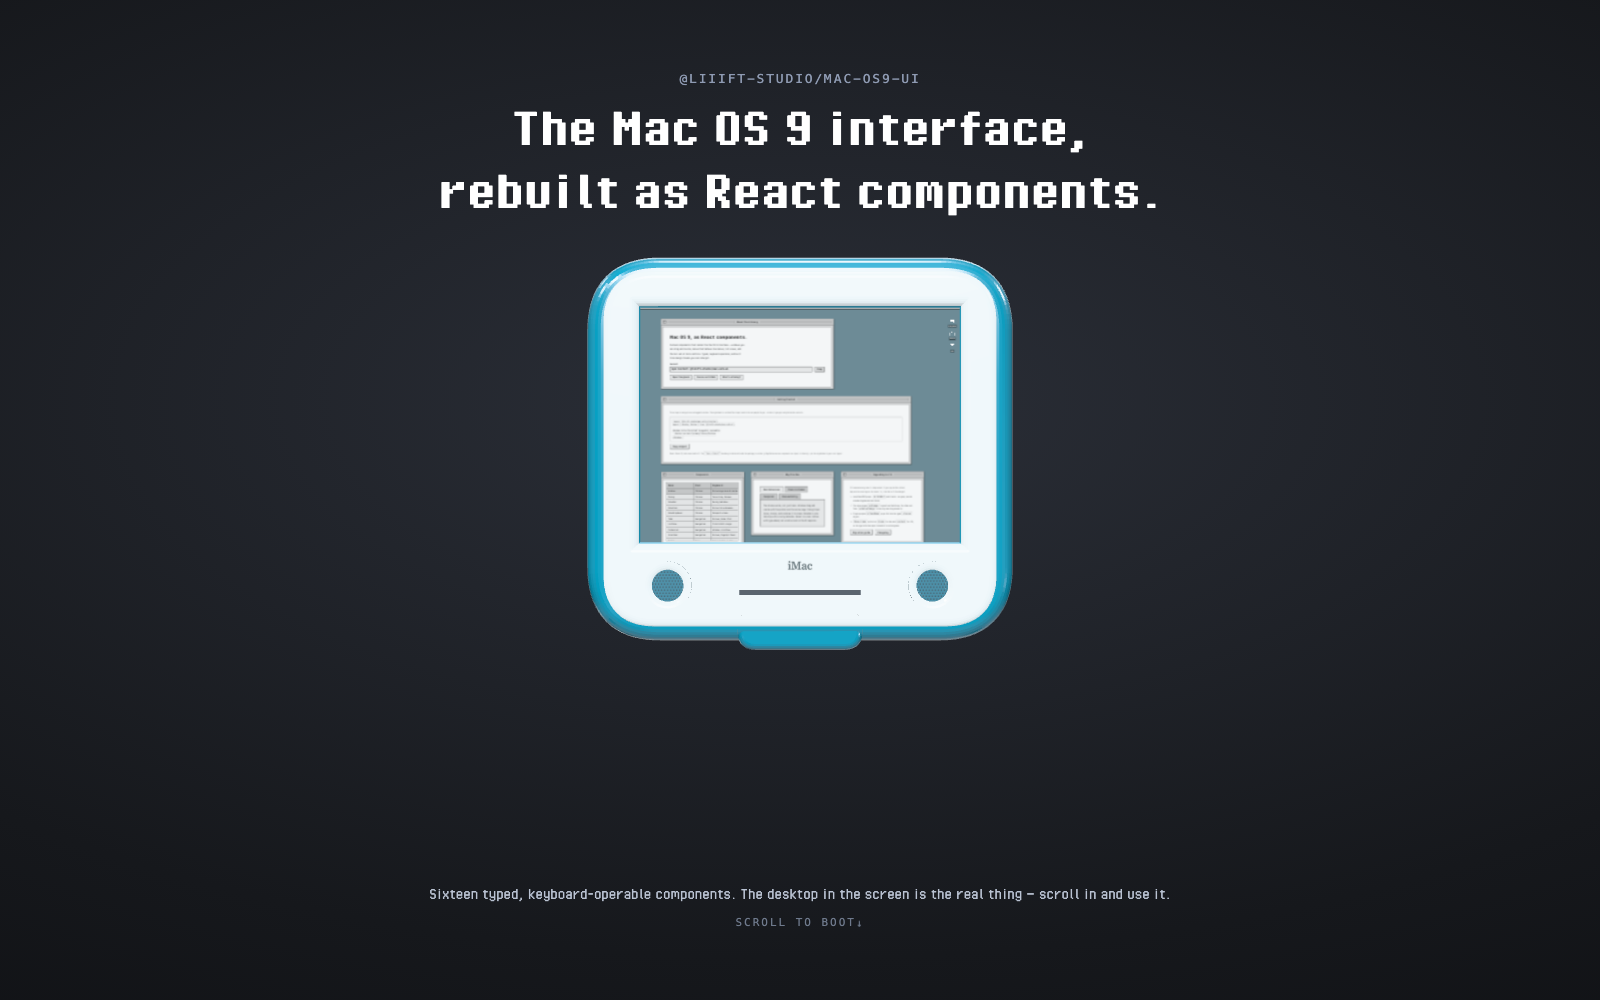
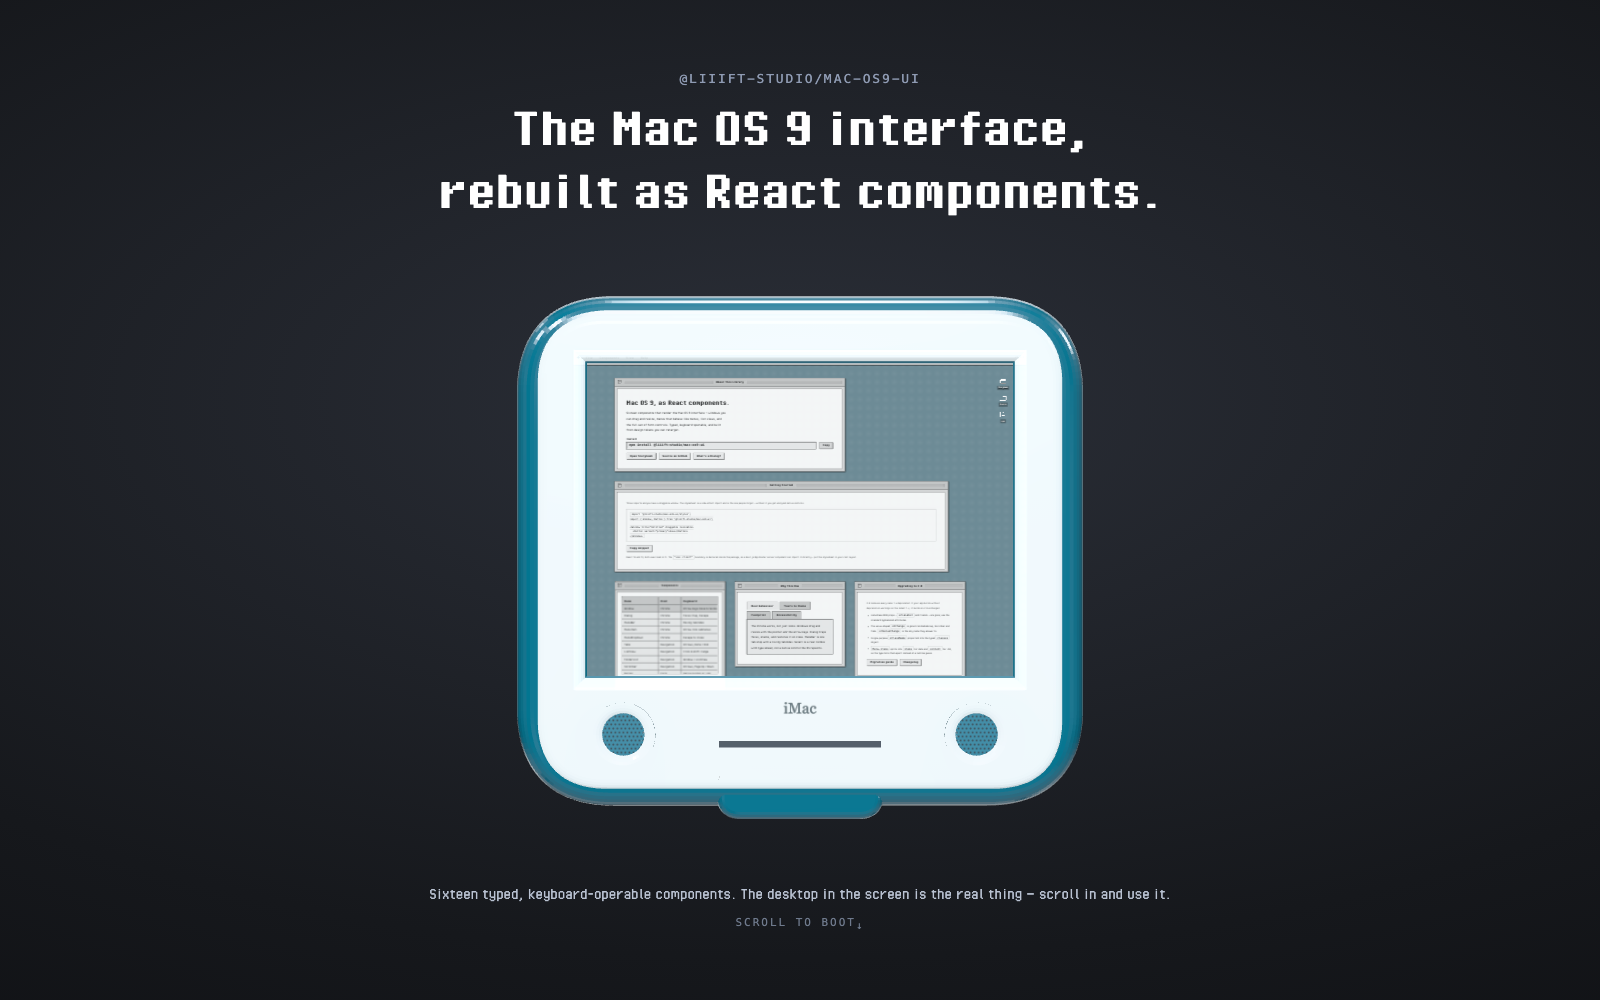
Site: menu bar above the windows, machine centred and larger, translucent shell
Three things wrong on the deployed page, plus one I introduced fixing them.

Windows scrolled over the menu bar. WindowManager hands out `baseZIndex + stack
position` from a default base of 100, and the menu bar was on 60 — so window
content rode over the top of it instead of under. The bar sits above the whole
window range now.

The machine sat high in the hero and was small for the space. The camera looks
at (0, heroCentreY, 0), and a world point at y = 0 lands BELOW the viewport
centre when that target is positive — so the sign follows the band the copy
leaves free rather than opposing it. It was negated, which pushed the machine
up by exactly the amount it should have come down. It also fills 88% of that
band now rather than 66%.

The shell is translucent, which is the whole point of the machine — you could
see into it. This is only safe now that the aperture is cut out of the shell as
well as the front panel: a transmissive material is drawn in the transparent
pass, after the cutout has written its hole, so while the shell was a solid
slab it blended straight over the desktop and washed the entire screen cyan.
With no shell geometry over the aperture there is nothing left to wash it with.
The ice panel gets a little transmission too, since diffusing polycarbonate is
translucent rather than painted.

And the one I made: releasing the desktop wrote inline position styles onto the
host, and un-releasing cleared them — but CSS3DRenderer caches the transform it
[…]

Changed region(s): [[0.3125, 0.248, 0.6875, 0.837]]

diff --git a/site/src/components/MachineStage.tsx b/site/src/components/MachineStage.tsx
@@ -1,12 +1,21 @@
 // Chooses how the machine is drawn, and owns the handoff to the live desktop.
 //
-// The desktop lives in one detached host element for the whole session, and
-// that element is *moved* between three homes: the CSS3D layer while the WebGL
-// machine has it, a plain full-viewport wrapper once the zoom completes, and
-// the CSS machine's screen when WebGL is unavailable. Moving the node rather
-// than re-parenting it in React is what keeps the desktop's state — open
-// windows, chosen flavour, selected rows — across the handoff. React renders
-// into the host through a portal and never has to care where it currently is.
+// Two detached elements, created once and never re-created. `host` is the 4:3
+// aperture and belongs to CSS3DRenderer for the whole session — nothing else
+// ever writes to its style. `page` is the viewport-sized desktop inside it,
+// and *that* is what moves: into a plain full-viewport wrapper once the zoom
+// completes, and back into the aperture when you scroll away again.
+//
+// Moving the page rather than the host is deliberate. CSS3DRenderer caches the
+// transform it wrote per object and skips rewriting an unchanged one, so any
+// inline style cleared off the host is never restored — the aperture ends up
+// stranded without its transform and the desktop spills out beside the case.
+// Leaving the host alone means there is nothing to strand.
+//
+// Moving a node rather than re-parenting it in React is what keeps the
+// desktop's state — open windows, chosen flavour, selected rows — across the
+// handoff. React renders into `page` through a portal and never has to care
+// where it currently is.
 //
 // WebGL is loaded on demand and is never on the critical path: if it fails, is
 // unsupported, or the visitor prefers reduced motion, the desktop is simply
@@ -116,25 +125,18 @@ export function MachineStage({ children, above, below }: MachineStageProps) {
 			stage.dataset.released = next ? 'true' : 'false';
 
 			if (next) {
-				release.appendChild(host);
-				// CSS3DRenderer writes position and a matrix3d straight onto the
-				// element it owns. Those survive the move, so they have to be
-				// replaced rather than merely cleared — the aperture is wider
-				// and taller than the viewport, and the page inside it only
-				// lands at 0,0 if the host is centred and top-aligned.
-				host.style.position = 'absolute';
-				host.style.top = '0';
-				host.style.left = '50%';
-				host.style.transform = 'translateX(-50%)';
-				host.style.willChange = '';
-				host.removeAttribute('inert');
-				host.removeAttribute('aria-hidden');
+				// Only the page moves. Where it sits in each home is decided by
+				// CSS on the parent, so no inline style is written here at all.
+				release.appendChild(page);
+				page.removeAttribute('inert');
+				page.removeAttribute('aria-hidden');
 				handle?.setVisible(false);
 			} else {
+				host.appendChild(page);
 				// `inert` is set through the DOM rather than as a JSX prop
 				// because React 18 does not recognise it as a known attribute.
-				host.setAttribute('inert', '');
-				host.setAttribute('aria-hidden', 'true');
+				page.setAttribute('inert', '');
+				page.setAttribute('aria-hidden', 'true');
 				handle?.setVisible(true);
 			}
 		};
@@ -148,9 +150,9 @@ export function MachineStage({ children, above, below }: MachineStageProps) {
 
 		// --- Flat fallback: no machine, just the desktop ---------------------
 		const runFlat = () => {
-			release.appendChild(host);
-			host.removeAttribute('inert');
-			host.removeAttribute('aria-hidden');
+			release.appendChild(page);
+			page.removeAttribute('inert');
+			page.removeAttribute('aria-hidden');
 			stage.dataset.released = 'true';
 			released = true;
 			setMode('flat');

diff --git a/site/src/components/machineGL.ts b/site/src/components/machineGL.ts
@@ -39,8 +39,8 @@ const ICE_COLOUR = 0xdfe7ea;
 /** Field of view, degrees. Long-ish, so the machine reads as a product shot. */
 const FOV = 32;
 
-/** Fraction of the viewport the machine fills in the hero. */
-const HERO_FILL = 0.66;
+/** Fraction of the free band the machine fills in the hero. */
+const HERO_FILL = 0.88;
 
 export interface MachineGLOptions {
 	/** Element the two renderers are appended to. */
@@ -252,19 +252,29 @@ export async function createMachineGL(options: MachineGLOptions): Promise<Machin
 	const machine = new THREE.Group();
 	scene.add(machine);
 
-	// Deliberately not `transmission`. A transmissive material is drawn in the
-	// transparent pass, after the cutout has written its hole — so it blends
-	// straight over the desktop and washes the whole screen cyan. Clearcoat
-	// over a saturated base gives the same wet-plastic read, renders in the
-	// opaque pass where the cutout can occlude it, and costs far less.
+	// The shell is translucent, because that is the whole point of the machine:
+	// you could see into it.
+	//
+	// This is only safe now that the aperture is cut out of the shell as well
+	// as the front panel. A transmissive material is drawn in the transparent
+	// pass, after the cutout has written its hole — so while the shell was a
+	// solid slab it blended straight over the desktop and washed the entire
+	// screen cyan. With no shell geometry over the aperture there is nothing
+	// left to wash it with.
 	const shellMaterial = new THREE.MeshPhysicalMaterial({
 		color: SHELL_COLOUR,
-		roughness: 0.18,
+		roughness: 0.14,
 		metalness: 0,
 		clearcoat: 1,
-		clearcoatRoughness: 0.05,
+		clearcoatRoughness: 0.04,
+		transmission: 0.55,
+		// Thickness drives how much the colour deepens through the material,
+		// which is what makes a moulded edge read thicker than a flat face.
+		thickness: 260,
+		attenuationDistance: 900,
+		attenuationColor: new THREE.Color(0x0a5568),
 		ior: 1.52,
-		envMapIntensity: 1.15,
+		envMapIntensity: 1.2,
 	});
 
 	// Frosted polycarbonate: a soft, slightly blue body under a hard gloss
@@ -276,6 +286,10 @@ export async function createMachineGL(options: MachineGLOptions): Promise<Machin
 		metalness: 0,
 		clearcoat: 1,
 		clearcoatRoughness: 0.12,
+		// Frosted rather than clear: a little transmission through a rough
+		// surface is what diffusing polycarbonate does.
+		transmission: 0.22,
+		thickness: 90,
 		sheen: 0.6,
 		sheenRoughness: 0.5,
 		sheenColor: new THREE.Color(0xbfd6dd),
@@ -559,9 +573,13 @@ export async function createMachineGL(options: MachineGLOptions): Promise<Machin
 
 		// Centre the machine in that band rather than in the viewport. The
 		// band's midpoint in pixels, converted to world units at hero distance.
+		// The camera looks at (0, heroCentreY, 0), and a world point at y = 0
+		// lands BELOW the viewport centre when that target is positive — so the
+		// sign follows the band rather than opposing it. It was negated, which
+		// pushed the machine up by exactly the amount it should have come down.
 		const bandCentrePx = (heroBand.top + heroBand.bottom) / 2 - viewH / 2;
 		const worldPerPixel = (2 * heroDistance * halfFov) / viewH;
-		heroCentreY = -bandCentrePx * worldPerPixel;
+		heroCentreY = bandCentrePx * worldPerPixel;
 	};
 
 	const resize = () => {

diff --git a/site/src/styles/site.css b/site/src/styles/site.css
@@ -201,14 +201,14 @@ a {
 	z-index: 3;
 }
 
-/* Released back into plain layout. The aperture is larger than the viewport,
- * so it is centred and top-aligned — which is what puts the page inside it at
- * exactly 0, 0. */
-.machineRelease > .machineScreen__live {
-	position: absolute;
-	top: 0;
-	left: 50%;
-	transform: translateX(-50%);
+/* Released back into plain layout: the page leaves the aperture entirely and
+ * becomes the viewport. The aperture itself never moves — it belongs to
+ * CSS3DRenderer, and anything cleared off it is never restored, because the
+ * renderer caches the transform it wrote and skips rewriting an unchanged
+ * one. */
+.machineRelease > .machineScreen__page {
+	left: 0;
+	transform: none;
 }
 
 .zoomStage[data-released='true'] .machineScreen__page {
@@ -253,7 +253,7 @@ a {
 /* Once the zoom has finished, the desktop is the thing you are using: it
  * takes pointer events and scrolls its own content. Before that it is scenery,
  * and MachineStage has it marked inert so it is out of the tab order too. */
-.zoomStage[data-released='false'] .machineScreen__live {
+.zoomStage[data-released='false'] .machineScreen__page {
 	pointer-events: none;
 }
 
@@ -289,7 +289,10 @@ a {
 .desktopMenuBar {
 	position: sticky;
 	top: 0;
-	z-index: 60;
+	/* Above the window stack. WindowManager hands out `baseZIndex + position`
+	 * from a default base of 100, bounded by the number of windows — so at 60
+	 * every window scrolled straight over the menu bar instead of under it. */
+	z-index: 200;
 }
 
 
